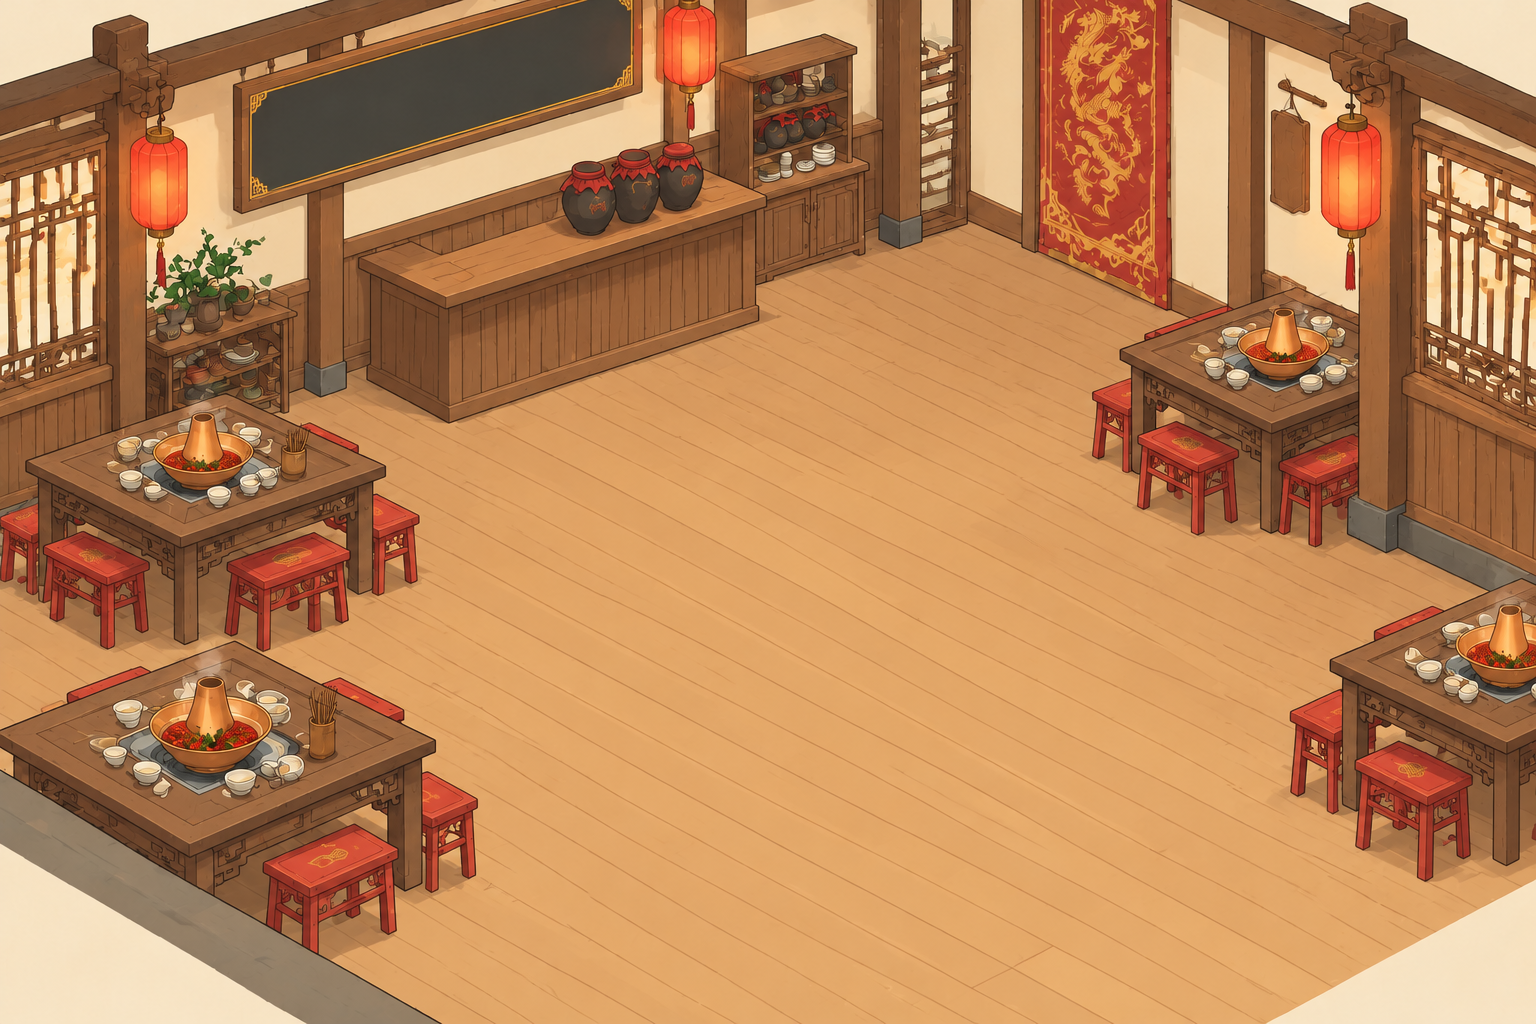
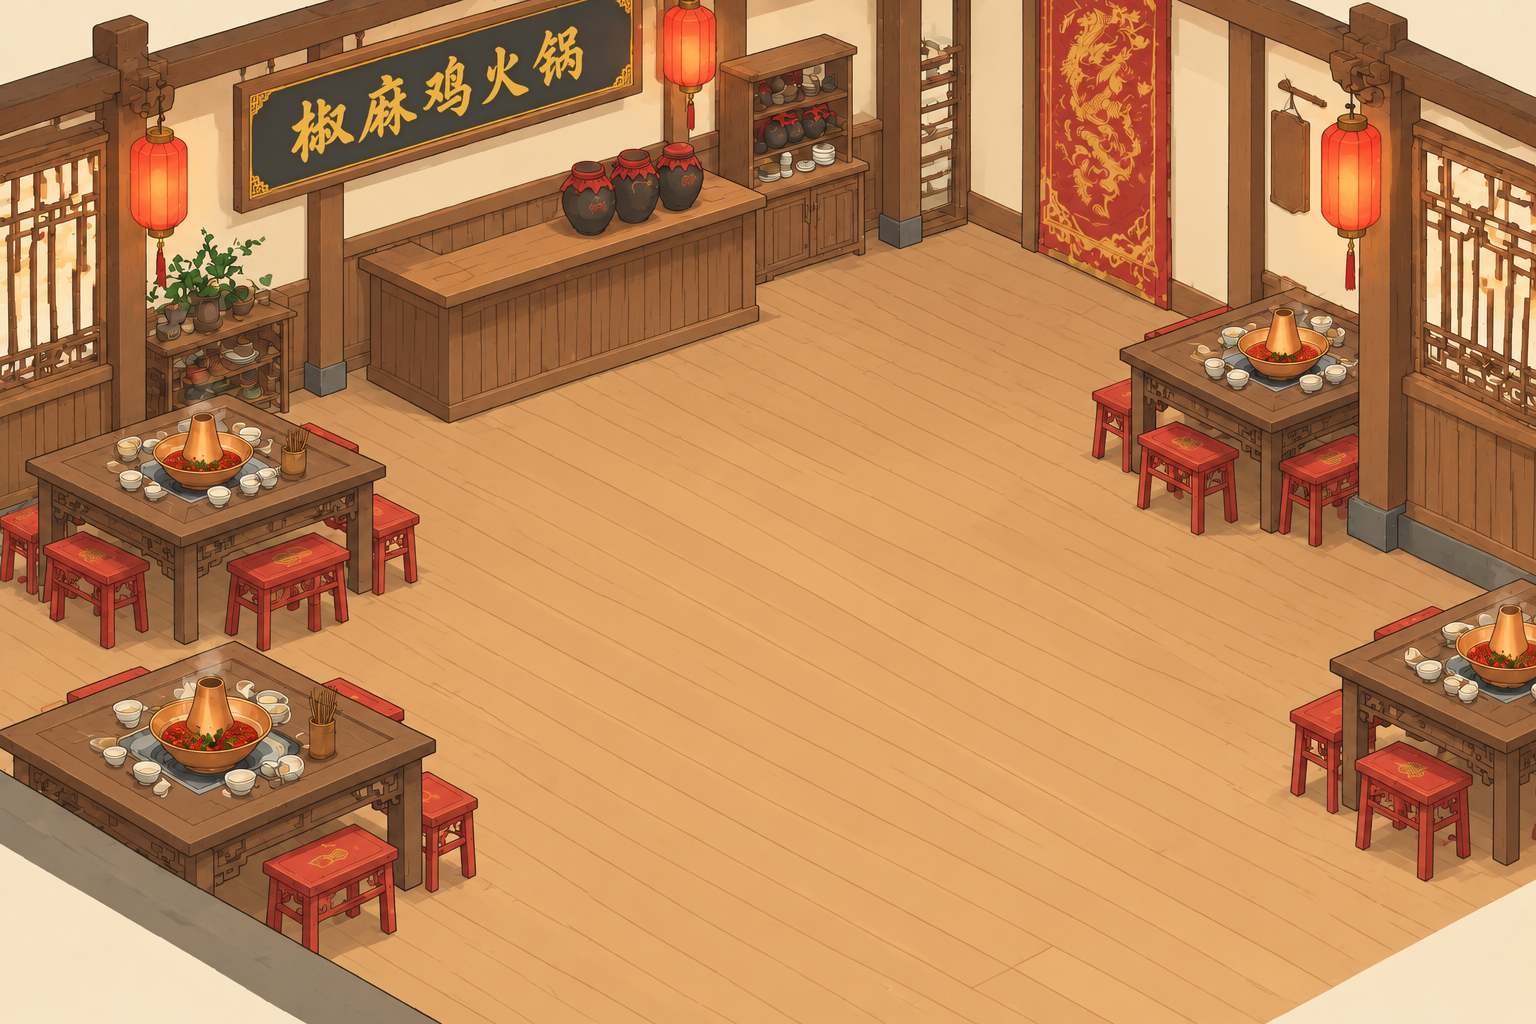
发布 M13：招牌画进底图 + 血条加粗，待验收

Changed region(s): [[0.1562, 0.0312, 0.4062, 0.1875]]

diff --git a/m13/js/story.js b/m13/js/story.js
@@ -202,42 +202,40 @@
     });
   }
   // M13：平涂底图的招牌是空白木匾 → 程序写上「椒麻鸡火锅」（顺着匾面斜度）
-  // M13：底图上的空白木匾是斜透视的；在它上面叠一块端正的平涂牌匾（武侠夜色：深木框金边 + 深墨底 + 内金线 + 金字），五个字水平居中写正。
-  // 全部在世界坐标里画，跟着相机缩放走；canvas 按 devicePixelRatio 出图，字不糊。
+  // M13：招牌字改为画进底图 bg_room_flat_sign（map.js signText = null 时这里不画任何东西）。
+  // 保留斜切画法作备用：signText 填 {text,x,y,size,skew} 即按木匾透视画金字，不画底板。
   var SIGN_FONT = "'PingFang SC','HarmonyOS Sans SC','MiSans','Noto Sans SC','Noto Sans CJK SC','Source Han Sans SC','Microsoft YaHei',sans-serif";
-  function rrect(ctx, x, y, w, h, r) {
-    ctx.beginPath(); ctx.moveTo(x + r, y); ctx.lineTo(x + w - r, y); ctx.quadraticCurveTo(x + w, y, x + w, y + r);
-    ctx.lineTo(x + w, y + h - r); ctx.quadraticCurveTo(x + w, y + h, x + w - r, y + h); ctx.lineTo(x + r, y + h);
-    ctx.quadraticCurveTo(x, y + h, x, y + h - r); ctx.lineTo(x, y + r); ctx.quadraticCurveTo(x, y, x + r, y); ctx.closePath();
-  }
   function signBox() {
     var s = window.Game.map().signText; if (!s) return null;
-    var w = s.w || 422, h = s.h || 214;
-    return { x: s.x - w / 2, y: s.y - h / 2, w: w, h: h, cx: s.x, cy: s.y, size: s.size || 56, text: s.text };
+    // 斜切后外接框（截图/热区用）：按字宽 × |skew| 估竖直外扩
+    var fs = s.size || 56, n = Array.from(s.text || "").length, gap = Math.round(fs * 0.08);
+    var tw = n * fs + Math.max(0, n - 1) * gap, th = fs * 1.15;
+    var sk = s.skew || 0, pad = 18;
+    var x0 = s.x - tw / 2 - pad, x1 = s.x + tw / 2 + pad;
+    var yTop = Math.min(s.y - th / 2 + sk * (-tw / 2), s.y - th / 2 + sk * (tw / 2)) - pad;
+    var yBot = Math.max(s.y + th / 2 + sk * (-tw / 2), s.y + th / 2 + sk * (tw / 2)) + pad;
+    return { x: x0, y: yTop, w: x1 - x0, h: yBot - yTop, cx: s.x, cy: s.y, size: fs, text: s.text, skew: sk };
   }
   function drawShopSign(ctx) {
     if (window.Game.scene() !== "shop" || !window.Sprites.get("bg_room")) return;
-    var b = signBox(); if (!b) return;
+    var s = window.Game.map().signText; if (!s || !s.text) return;
+    var fs = s.size || 56, chars = Array.from(s.text), gap = Math.round(fs * 0.08);
+    var total = chars.length * fs + Math.max(0, chars.length - 1) * gap;
     ctx.save();
-    // 武侠夜色：深木外框 + 金边，深墨底 + 内金线
-    ctx.fillStyle = "rgba(0,0,0,.35)"; rrect(ctx, b.x + 3, b.y + 7, b.w, b.h, 10); ctx.fill();
-    ctx.fillStyle = "#2B2119"; rrect(ctx, b.x, b.y, b.w, b.h, 10); ctx.fill();
-    ctx.lineWidth = 2.5; ctx.strokeStyle = "#C9A45C"; ctx.stroke();
-    var m = 13; ctx.fillStyle = "#1A1E2A"; rrect(ctx, b.x + m, b.y + m, b.w - 2 * m, b.h - 2 * m, 6); ctx.fill();
-    ctx.lineWidth = 1.5; ctx.strokeStyle = "#8E6D31"; ctx.stroke();
-    var g = m + 8; ctx.strokeStyle = "#E3C27A"; ctx.lineWidth = 2; rrect(ctx, b.x + g, b.y + g, b.w - 2 * g, b.h - 2 * g, 4); ctx.stroke();
-    // 四角金色小菱
-    ctx.fillStyle = "#E3C27A";
-    [[b.x + g, b.y + g], [b.x + b.w - g, b.y + g], [b.x + g, b.y + b.h - g], [b.x + b.w - g, b.y + b.h - g]].forEach(function (p) {
-      ctx.beginPath(); ctx.moveTo(p[0], p[1] - 7); ctx.lineTo(p[0] + 7, p[1]); ctx.lineTo(p[0], p[1] + 7); ctx.lineTo(p[0] - 7, p[1]); ctx.closePath(); ctx.fill();
-    });
-    // 五个字：逐字等距排开、水平居中、竖直居中、不倾斜
-    var chars = Array.from(b.text), fs = b.size, gap = Math.round(fs * 0.12), total = chars.length * fs + (chars.length - 1) * gap;
-    ctx.font = "900 " + fs + "px " + SIGN_FONT; ctx.textAlign = "center"; ctx.textBaseline = "middle";
+    // 当前相机变换 × 平移到匾心 × 竖直剪切（右端上扬，贴合木匾透视）
+    var m = ctx.getTransform().multiply(new DOMMatrix([1, s.skew || 0, 0, 1, s.x, s.y]));
+    ctx.setTransform(m);
+    ctx.font = "900 " + fs + "px " + SIGN_FONT;
+    ctx.textAlign = "center"; ctx.textBaseline = "middle";
+    ctx.lineJoin = "round"; ctx.miterLimit = 2;
     chars.forEach(function (ch, i) {
-      var x = b.cx - total / 2 + fs / 2 + i * (fs + gap);
-      ctx.fillStyle = "#0E1016"; ctx.fillText(ch, x, b.cy + 3);      // 暗投影
-      ctx.fillStyle = "#E8C77E"; ctx.fillText(ch, x, b.cy);           // 金字
+      var x = -total / 2 + fs / 2 + i * (fs + gap);
+      // 薄暗描边 + 金字（无底板），贴在木匾炭黑面上
+      ctx.lineWidth = Math.max(3, fs * 0.08);
+      ctx.strokeStyle = "rgba(20,16,12,.72)";
+      ctx.strokeText(ch, x, 1);
+      ctx.fillStyle = "#E8C77E";
+      ctx.fillText(ch, x, 0);
     });
     ctx.restore();
   }

diff --git a/index.html b/index.html
@@ -53,7 +53,7 @@
     </header>
     <main class="cards">
     <!--CARDS-->
-    <a class="card hot" href="m13/"><span class="seal new">待验收</span><h2>M13 · 武侠夜色界面 + 招牌修正 + 铺满屏幕</h2><p>M13 待验收：武侠夜色界面+招牌修正+铺满屏幕。界面换成用户选的方案 A「武侠夜色」（深墨底、细金线、菱形菜单钮、整条横幅对话）；火锅店招牌改成端正的深色金线牌匾，「椒麻鸡火锅」五个字水平居中写正；画面按手机比例铺满，横屏竖屏都不留黑边（战斗、江湖地图也铺满，单位和节点不裁），旋转和地址栏变化即时重算；设置里和首次点击有「全屏」，iPhone 用「添加到主屏幕」无地址栏运行。平涂场景和火锅店新碰撞沿用。存档 <code>jiaoma_jianghu_m13</code>，可读 M12→M8。</p><span class="go">入局 →</span></a>
+    <a class="card hot" href="m13/"><span class="seal new">待验收</span><h2>M13 · 招牌画进底图 + 血条加粗</h2><p>M13 待验收：招牌画进底图+血条加粗。「椒麻鸡火锅」五个字已画进火锅店底图（bg_room_flat_sign），代码不再叠牌匾或斜切字；伙伴面板血蓝条 14px 带数字、HUD 左上 10px（武侠夜色皮肤加粗）。铺满屏幕、武侠夜色界面沿用。存档 <code>jiaoma_jianghu_m13</code>，可读 M12→M8。</p><span class="go">入局 →</span></a>
     <a class="card" href="m12/"><span class="seal new">迭代中</span><h2>M12 · 手机界面减挡改版（UI）</h2><p>在 M11 菜单框架上做手机减挡：任务条默认可折叠、右下六圆钮可收成一个菜单浮钮、对话时再收一层；靠近 NPC 出大「交谈」钮；设置可「收起 HUD / 按钮更大·标准 / 全屏」。横屏跟烟雨江湖习惯、竖屏底栏可玩并带可关掉的旋转提示。热区 ≥48 CSS px。存档键 <code>jiaoma_jianghu_m12</code>，可读 M11→M8。摇杆/自动寻路/自动战斗/二倍速、NPC 环状菜单仍待批准。场景平涂新图等用户锁定后再换。</p><span class="go">入局 →</span></a>
     <a class="card" href="m11/"><span class="seal new">待验收</span><h2>M11 · 手机菜单框架（占位）+ 对白前缀修复</h2><p>按烟雨江湖习惯重排手机 HUD（占位图）：左上头像与血蓝条、左侧当前目标、右上地图入口、右下六个圆形快捷按钮（背包/武学/伙伴/任务/菜谱/设置）。第三～五章对白节点加 C3_/C4_/C5_ 前缀，认星/下网不再被第五章盖掉。标题加载进度条、竖屏全屏旋转提示、战斗选目标可点「返回」或点空白取消。可读取 M10/M9/M8 存档。摇杆/自动战斗等仍待批准。</p><span class="go">入局 →</span></a>
     <a class="card" href="m10/"><span class="seal new">待验收</span><h2>M10 · 三人骨骼行走 + 正式大地图 + 火锅店去噪</h2><p>小满、飞飞、胖弟三人都改为 2D 骨骼行走与待机：小满换上补全的新躯干（动作参数不变）；飞飞步子轻快、持扇手稳；胖弟步子沉、扛勺不晃。<br>「江湖地图」换成正式手绘大地图：六地按章节解锁，路线沿江岸、过石桥，去雾江古渡要坐渡船。火锅店底图去噪更干净。<br>右侧「探索」面板可开关三人骨骼动画，<code>?rig=0</code> 全部整图，<code>?rig=all</code> 试看全员骨骼（实验）。可读取 M9 / M8 存档，<code>?chapter=1~6</code> 直达。</p><span class="go">入局 →</span></a>
@@ -69,7 +69,7 @@
     <!--/CARDS-->
     </main>
     <footer>
-      最后更新：<!--UPDATED-->2026-10-19 11:57（北京时间）<!--/UPDATED--><br>
+      最后更新：<!--UPDATED-->2026-10-19 13:29（北京时间）<!--/UPDATED--><br>
       电脑、手机浏览器均可游玩（手机建议横屏）· 进度保存在本机浏览器
     </footer>
   </div>

diff --git a/m13/map.js b/m13/map.js
@@ -8,7 +8,7 @@ window.MAP = window.MAP_SHOP = {
   "version": 1,
   "id": "shop", "name": "皇族小满家·椒麻鸡火锅", "time": "戌时", "bg": "bg_room", "placeholder": "room",
   "world": { "w": 1536, "h": 1024 },
-  "signText": { "text": "椒麻鸡火锅", "x": 440, "y": 103, "w": 422, "h": 214, "size": 64, "skew": 0 },
+  "signText": null,
   "cols": 10,
   "rows": 12,
   "originX": 900,
@@ -44,7 +44,7 @@ window.MAP = window.MAP_SHOP = {
   "interactables": [
     { "id": "zhanggui", "name": "满掌柜", "kind": "npc", "cells": [[0, 5]] },
     { "id": "table", "name": "火锅桌", "kind": "prop", "cells": [[0,8],[0,9],[0,10],[1,10],[-1,8],[-1,9]], "hit": { "x": 30, "y": 390, "w": 360, "h": 215 } },
-    { "id": "sign", "name": "“椒麻鸡火锅”招牌", "kind": "sign", "cells": [[-1, 2], [-1, 3]], "hit": { "x": 229, "y": 0, "w": 422, "h": 210 } },
+    { "id": "sign", "name": "“椒麻鸡火锅”招牌", "kind": "sign", "cells": [[-1, 2], [-1, 3]], "hit": { "x": 250, "y": 25, "w": 400, "h": 175 } },
     { "id": "kitchen", "name": "后厨门帘", "kind": "hotspot", "cells": [[0, -1], [-1, -1]], "hit": { "x": 900, "y": 69, "w": 75, "h": 155 }, "label": "后厨",
       "sprite": { "name": "prop_kitchen_curtain", "x": 938, "y": 224, "h": 155 } },
     { "id": "door", "name": "店门（往老码头）", "kind": "exit", "to": "market", "entrance": "from_shop", "cells": [[7, 12], [8, 12]],

diff --git a/m13/css/ui_wuxia.css b/m13/css/ui_wuxia.css
@@ -20,7 +20,9 @@ body{color:var(--w-text);}
 #hud .hud-tl{background:var(--w-bg); border:1px solid var(--w-gold); border-radius:40px; box-shadow:var(--w-glow); padding:5px 16px 5px 5px;}
 #hud .hud-avatar{border:2px solid var(--w-gold); background:#2a2f3c;}
 #hud .hud-name{color:var(--w-text); font-weight:700; letter-spacing:1px;}
-#hud .hud-bar,#hud-panel .hp-mem .hud-bar{height:7px; border:0; border-radius:4px; background:#3a3f4c; box-sizing:border-box;}
+#hud .hud-bar{height:10px; border:0; border-radius:5px; background:#3a3f4c; box-sizing:border-box;}
+#hud-panel .hp-mem .hud-bar{height:14px; border:0; border-radius:7px; background:#3a3f4c; box-sizing:border-box; margin-top:5px;}
+#hud-panel .hp-mem .hud-bar span{display:block; line-height:14px; font-size:12px; color:#fff; text-shadow:0 1px 1px #000; text-align:center;}
 #hud .hud-bar.hp i,#hud-panel .hp-mem .hud-bar.hp i{background:linear-gradient(#EA6E4E,#B7392A);}
 #hud .hud-bar.mp i,#hud-panel .hp-mem .hud-bar.mp i{background:linear-gradient(#72B6E8,#2F6FAE);}
 

diff --git a/m13/css/ui_flat_m13.css b/m13/css/ui_flat_m13.css
@@ -45,6 +45,8 @@ html.hud-btn-std   { --rb: 56px; --talk: 76px; }
 #hud .hud-bar.hp i { background: var(--c-hp); }
 #hud .hud-bar.mp i { background: var(--c-mp); }
 #hud .hud-bar span { display: none; }
+#hud-panel .hp-mem .hud-bar { height: 14px; border-radius: 7px; }
+#hud-panel .hp-mem .hud-bar span { line-height: 14px; font-size: 12px; }
 
 /* 任务条 */
 #hud .hud-track {

diff --git a/m13/assets.js b/m13/assets.js
@@ -2,7 +2,7 @@
 // 生成时间：2026-10-17 10:26:45  源目录：art/locked → art/ch4 → art/ch3 → art/m5 → art/m4 → art/m3
 window.ASSETS = {
   "bg_room": {
-    "file": "bg_room_flat.png",
+    "file": "bg_room_flat_sign.png",
     "from": "ch7",
     "srcW": 1536,
     "srcH": 1024,

diff --git a/m13/M13_NOTES.md b/m13/M13_NOTES.md
@@ -16,3 +16,9 @@
   battle.js / worldmap.js 同样 cover，但所有单位 / 节点不裁；resize、orientationchange、visualViewport resize、fullscreenchange 和每帧尺寸检查都会即时重算。css/fill_m13.css 只改布局（100dvh、全屏层跟舞台走、fs-chip）。
 - 全屏：设置里「全屏 / 退出全屏」+ 首次点击弹出「全屏」钮（requestFullscreen + webkit 前缀，成功后 screen.orientation.lock('landscape')）；
   iPhone Safari 无元素全屏 → 设置里提示「分享 → 添加到主屏幕」；manifest.json（display: fullscreen，orientation: landscape，图标 icons/）+ apple-mobile-web-app-capable / black-translucent / apple-touch-icon。
+
+## M13 继续改（10-19 下午）：招牌画进底图 + 血条加粗
+- 血条：css/ui_wuxia.css 与 art/ui_wuxia/ui_wuxia.css 逐字节一致。伙伴面板 14px 带数字，HUD 左上 10px（武侠夜色初版是 7px）。ui_flat_m13.css 同步成 10/14。只改 CSS。
+- 招牌：字由设计画进 `art/ch7/bg_room_flat_sign.png`（1536×1024，与旧 flat 同尺寸）。`assets/bg_room.png` 与之 md5 一致；prep_assets SRC_OVERRIDE 优先指向它。map.js `signText: null`，drawShopSign 不画任何叠字/牌匾/斜切字。
+- 桌上锅：不接入 prop_pot_flat；map.js props 仍为空；写实锅仍是底图像素（用户没说锅有问题）。
+- 碰撞 / 热区：底图同尺寸，walk / interactables 未改。
